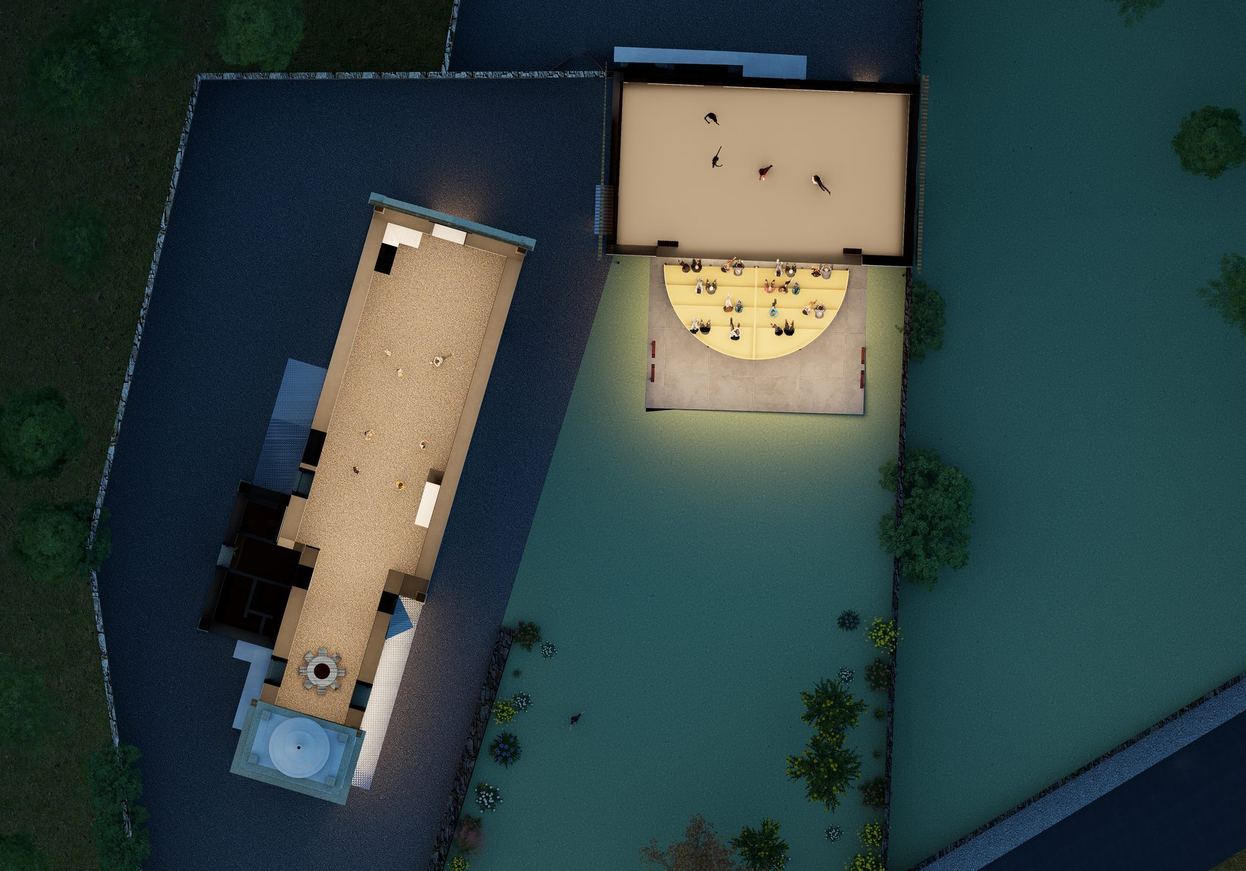
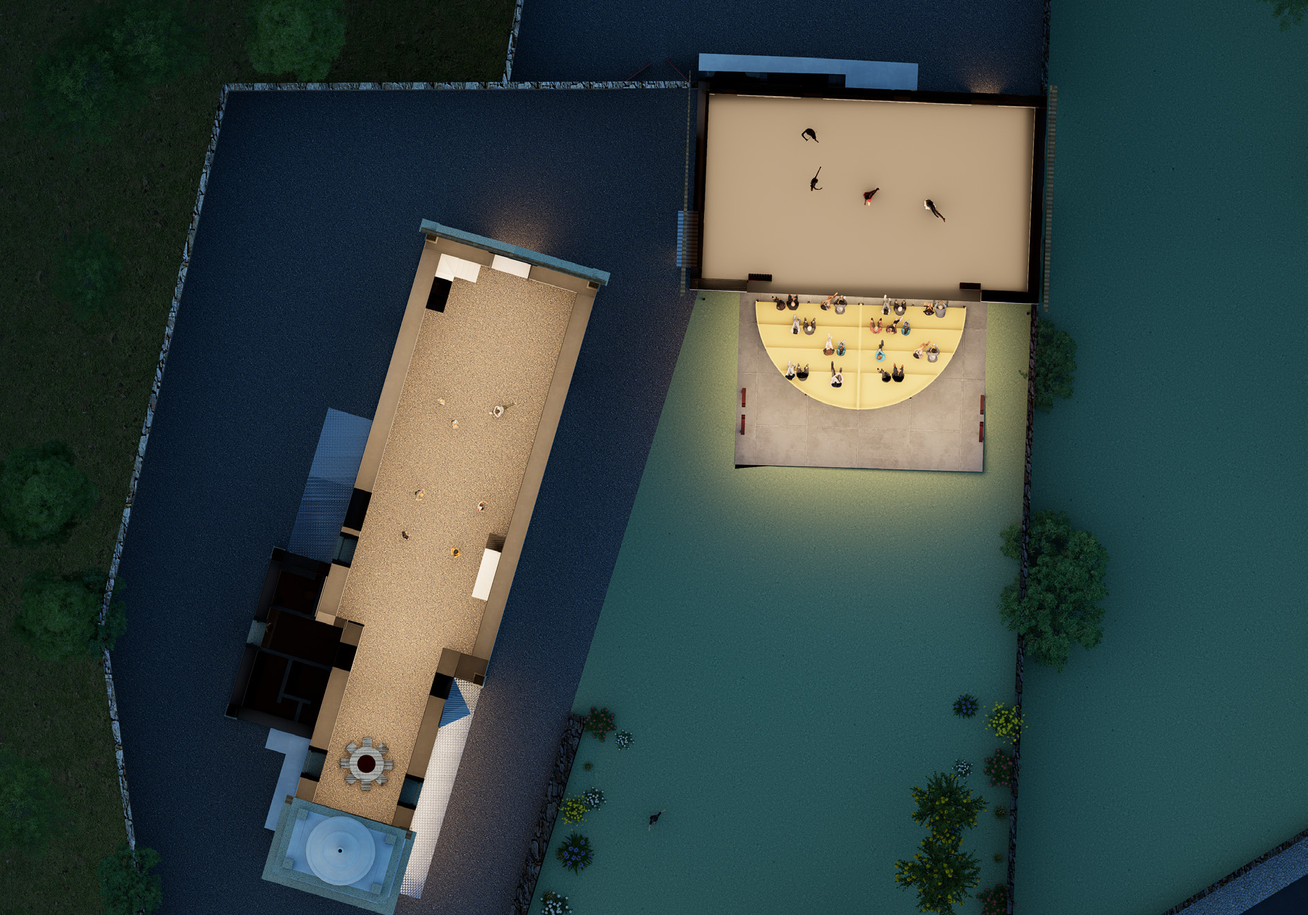
Dossier D: o ponto alinha pelo título, e as linhas da tira e da planta fecham no ecrã
O ponto de cada item passa a alinhar pelo rótulo e pelo título que tem por
cima — é o texto que recua para lhe dar lugar. Pendurado na margem, como
esteve, ficava fora da coluna da página e era o texto que fingia alinhar.

A medida de leitura de um parágrafo sobe para 55ch.

Espaço vertical: a lista da missão centra-se no que sobra por baixo do
título, e nas actividades duas margens automáticas repartem o vazio entre
as listas e as idades — as listas descem, as idades sobem.

A tira da obra ganha altura definida, como a planta já tinha: sem isso o
1fr resolve-se pelo tamanho natural das quatro verticais, e eram as
legendas — que vivem no fim da tira — as primeiras a cair para fora do
ecrã. Num ecrã de 1920×971 a linha passava do ecrã; agora fecha nele, e as
doze medem o mesmo em qualquer altura de janela.

Nos acessos o mapa deixa de flutuar a meio: começa na linha por onde o
texto ao lado começa.

A vinheta da proposta nocturna passa aos 400px e à imagem original do
dossier de 2025, que é maior (1889×1322) do que a que estava.

Mecenato: sai o filete das parcerias, e os quatro níveis passam a começar
no meio da folha — o limite esquerdo deles é o centro, e em colunas mais
estreitas cada um lê-se de cima para baixo.

diff --git a/dossier/d/index.html b/dossier/d/index.html
@@ -437,23 +437,20 @@ html.menu-open .menu::before { opacity: 1; }
   font-size: var(--t-corpo);
   font-weight: 700;
 }
-.texto p { max-width: 52ch; }
+.texto p { max-width: 55ch; }
 /* A mesma medida de leitura das listas e da tabela: sem ela as linhas
    atravessam a metade inteira do ecrã. */
 .texto .lista, .texto .rota, .texto .mapa__legenda { max-width: 58ch; }
 
-/* Cada item leva um ponto, e o ponto fica pendurado fora da coluna: o texto
-   continua a alinhar pelo título que tem por cima, e o sinal vive na margem.
-   É o contrário do "›" que aqui esteve, que empurrava o texto todo para
-   dentro e desalinhava a lista de tudo o resto.
-
-   O ponto cabe na goteira da página (var(--gutter)), e por isso não precisa
-   de recuo nenhum para ser desenhado. */
-.lista li { position: relative; font-size: var(--t-lista); line-height: 1.55; }
+/* Cada item leva um ponto, e é o ponto que alinha pelo rótulo e pelo título
+   que tem por cima — o texto é que recua para lhe dar lugar. Pendurado na
+   margem, como esteve, o ponto ficava fora da coluna da página e era o
+   texto que fingia estar alinhado. */
+.lista li { position: relative; padding-left: 1.15em; font-size: var(--t-lista); line-height: 1.55; }
 .lista li::before {
   content: "";
   position: absolute;
-  left: -.85em;
+  left: 0;
   top: .62em;
   width: .28em;
   height: .28em;
@@ -471,6 +468,10 @@ html.menu-open .menu::before { opacity: 1; }
 /* A missão são cinco frases inteiras, e não cinco palavras: entre elas vai
    uma linha de intervalo, para cada uma se ler como um parágrafo seu. */
 .lista--solta li + li { margin-top: 1.15em; }
+/* E a lista da missão, que é o corpo todo da linha, centra-se no que sobra
+   por baixo do título: as duas margens automáticas repartem o vazio, em vez
+   de o deixar todo no fundo do ecrã. */
+.lista--solta { margin-block: auto; }
 /* E ao contrário: quinze linhas seguidas — o plano de requalificação — só
    cabem num ecrã com o ar entre elas apertado ao mínimo. */
 .lista--cerrada li { line-height: 1.4; }
@@ -478,7 +479,11 @@ html.menu-open .menu::before { opacity: 1; }
 
 /* As idades são o rodapé das actividades: descem para o fim do bloco, e o
    ar que sobrava por baixo delas passa a estar por cima. */
-.idades { margin-top: auto; padding-top: clamp(16px, 3vh, 40px); }
+/* Duas margens automáticas na mesma coluna repartem o vazio entre si: as
+   listas descem, as idades sobem, e o que sobrava todo no fundo passa a
+   estar metade acima de cada uma. */
+.duas--desce { margin-top: auto; }
+.idades { margin-top: auto; }
 .idades .kicker { margin-bottom: 12px; }
 .pills { display: flex; flex-wrap: wrap; gap: 8px; }
 .pills li {
@@ -628,14 +633,17 @@ html.menu-open .menu::before { opacity: 1; }
 }
 
 /* --- A linha da tira: texto em cima, fotografias em baixo ---------------
-   O texto vale o que pedir e a tira fica com o resto da altura. */
-.linha--tira { grid-template-rows: auto minmax(0, 1fr); }
+   O texto vale o que pedir e a tira fica com o resto da altura. A altura é
+   definida e não apenas mínima: sem isso o 1fr resolve-se pelo tamanho
+   natural das quatro verticais, e eram as legendas — que vivem no fim da
+   tira — as primeiras a cair para fora do ecrã. */
+.linha--tira { height: var(--linha-h); grid-template-rows: auto minmax(0, 1fr); }
 .linha--tira .texto { padding-bottom: clamp(14px, 2.5vh, 30px); }
 /* Quatro verticais lado a lado precisam de largura. Abaixo dos 860 passam a
    duas por linha, que é onde cada uma ainda se vê. */
 @media (max-width: 860px) {
   .tira { grid-auto-flow: row; grid-template-columns: 1fr 1fr; }
-  .linha--tira { grid-template-rows: auto auto; }
+  .linha--tira { height: auto; grid-template-rows: auto auto; }
   .linha--tira .tira .figura { min-height: 32svh; }
 }
 
@@ -798,7 +806,7 @@ html.menu-open .menu::before { opacity: 1; }
 
 /* Uma fotografia pequena dentro de um bloco de texto: a proposta nocturna,
    à escala de uma vinheta, por baixo da legenda do terreno. */
-.vinheta { width: min(100%, 260px); aspect-ratio: 16 / 9; object-fit: cover; }
+.vinheta { width: min(100%, 400px); aspect-ratio: 16 / 9; object-fit: cover; }
 
 /* --- Acessos (F5): o mapa e a lista do "como chegar?" do site -----------
 
@@ -935,9 +943,7 @@ html.menu-open .menu::before { opacity: 1; }
   display: flex;
   flex-direction: column;
   gap: clamp(5px, .9vh, 11px);
-  margin-top: clamp(12px, 2vh, 24px);
-  padding-top: clamp(10px, 1.7vh, 20px);
-  border-top: 1.5px solid color-mix(in srgb, currentColor 30%, transparent);
+  margin-top: clamp(14px, 2.4vh, 30px);
 }
 /* Quatro colunas iguais: parcerias, apoios e — porque são dez — os pontos
    de interesse a ocupar duas. */
@@ -985,14 +991,14 @@ html.menu-open .menu::before { opacity: 1; }
   column-gap: clamp(24px, 3vw, 40px);
   max-width: none;
 }
-.linha--mecenato .mecenato__corpo > div > .lista li { break-inside: avoid; margin-left: .85em; }
+.linha--mecenato .mecenato__corpo > div > .lista li { break-inside: avoid; }
 @media (max-width: 620px) {
   .linha--mecenato .mecenato__corpo > div > .lista { columns: 1; }
-  .linha--mecenato .mecenato__corpo > div > .lista li { margin-left: 0; }
 }
-/* Os quatro níveis começam antes do meio do ecrã, e não nele: o plano à
-   esquerda cabe em menos de metade, e o que sobrava ali era um vazio. */
-.mecenato__corpo { grid-template-columns: minmax(0, .78fr) minmax(0, 1.22fr); }
+/* Os quatro níveis começam no meio da folha, e não antes dele: o limite
+   esquerdo deles é o centro, e em colunas mais estreitas cada um lê-se de
+   cima para baixo em vez de se espalhar pela linha. */
+.mecenato__corpo { grid-template-columns: minmax(0, 1fr) minmax(0, 1fr); }
 /* Um título de dentro de uma linha, e não de uma linha inteira: um degrau
    abaixo do .titulo que tem por cima. */
 .titulo--menor { font-size: clamp(19px, min(2vw, 3.1vh), 30px); }
@@ -1045,6 +1051,11 @@ html.menu-open .menu::before { opacity: 1; }
    duas faixas a legenda ficava colada ao fundo do ecrã e o mapa a meio, com
    um palmo de nada entre os dois. */
 .mapa__figura { background: transparent; display: flex; flex-direction: column; justify-content: center; }
+/* Nos acessos o mapa não flutua a meio: começa na linha por onde o texto ao
+   lado começa, e é por ela que os dois se alinham. O recuo de cima é o
+   mesmo respiro que o bloco de texto tem. */
+.mapa__figura--topo { justify-content: flex-start; }
+.mapa__figura--topo .aerial { margin-top: clamp(24px, 4.5vh, 60px); }
 .mapa__box { position: relative; aspect-ratio: 1197 / 1019; max-width: 100%; max-height: 100%; margin: clamp(12px, 2.5vh, 26px) var(--gutter); justify-self: center; align-self: center; line-height: 0; }
 .mapa__box img { width: 100%; height: 100%; min-width: 0; min-height: 0; object-fit: contain; }
 
@@ -1254,7 +1265,7 @@ html.menu-open .menu::before { opacity: 1; }
     <p class="kicker" data-en="3 &middot; Activities">3 &middot; Actividades</p>
     <h2 class="titulo" data-en="Activities">Actividades</h2>
     <p class="disciplinas" data-en="Dance &middot; Music &middot; Theatre &middot; Architecture &middot; Fine arts &middot; Visual arts &middot; Photography">Dança &middot; Música &middot; Teatro &middot; Arquitectura &middot; Artes plásticas &middot; Artes visuais &middot; Fotografia</p>
-    <div class="duas">
+    <div class="duas duas--desce">
       <div>
         <p class="kicker" data-en="Artists">Artistas</p>
         <ul class="lista">
@@ -1389,7 +1400,7 @@ html.menu-open .menu::before { opacity: 1; }
     </ul>
     <a class="maps-link" href="https://www.google.com/maps/search/?api=1&amp;query=Igreja+de+Retorta%2C+Vila+do+Conde" target="_blank" rel="noopener"><span data-en="Open in maps">Abre no maps</span> <span aria-hidden="true">&#8599;</span></a>
   </div>
-  <figure class="figura mapa__figura">
+  <figure class="figura mapa__figura mapa__figura--topo">
     <div class="aerial">
       <img src="../../mapsbirdseye.png" alt="Vista aérea de Retorta: a Sineira, a ponte sobre o rio Ave, as escolas e a envolvente" loading="lazy">
       <span class="aerial__pin aerial__pin--sineira">
